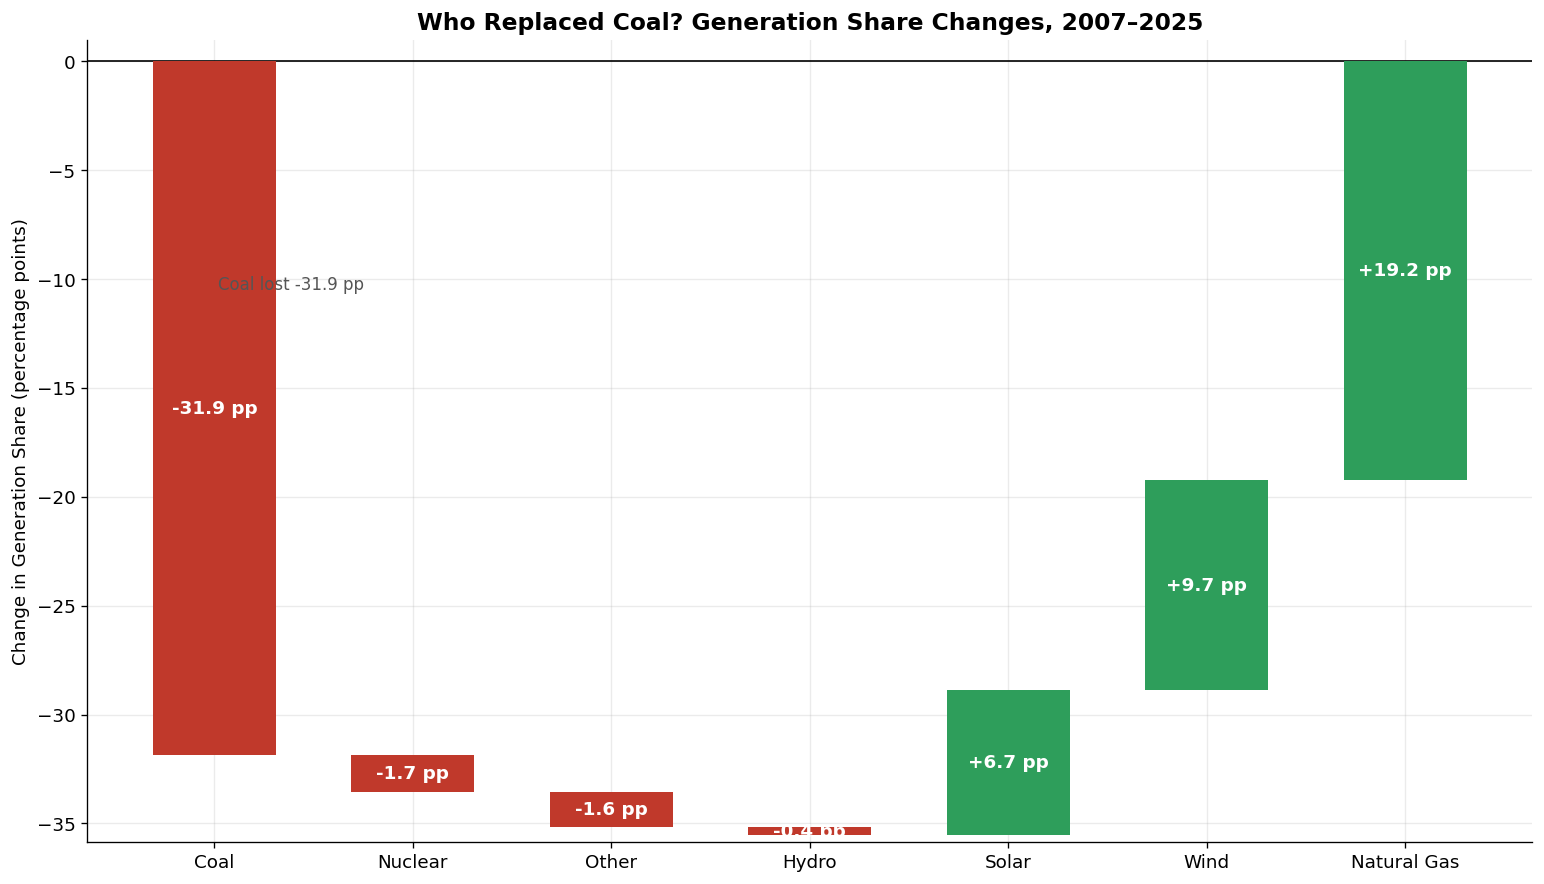
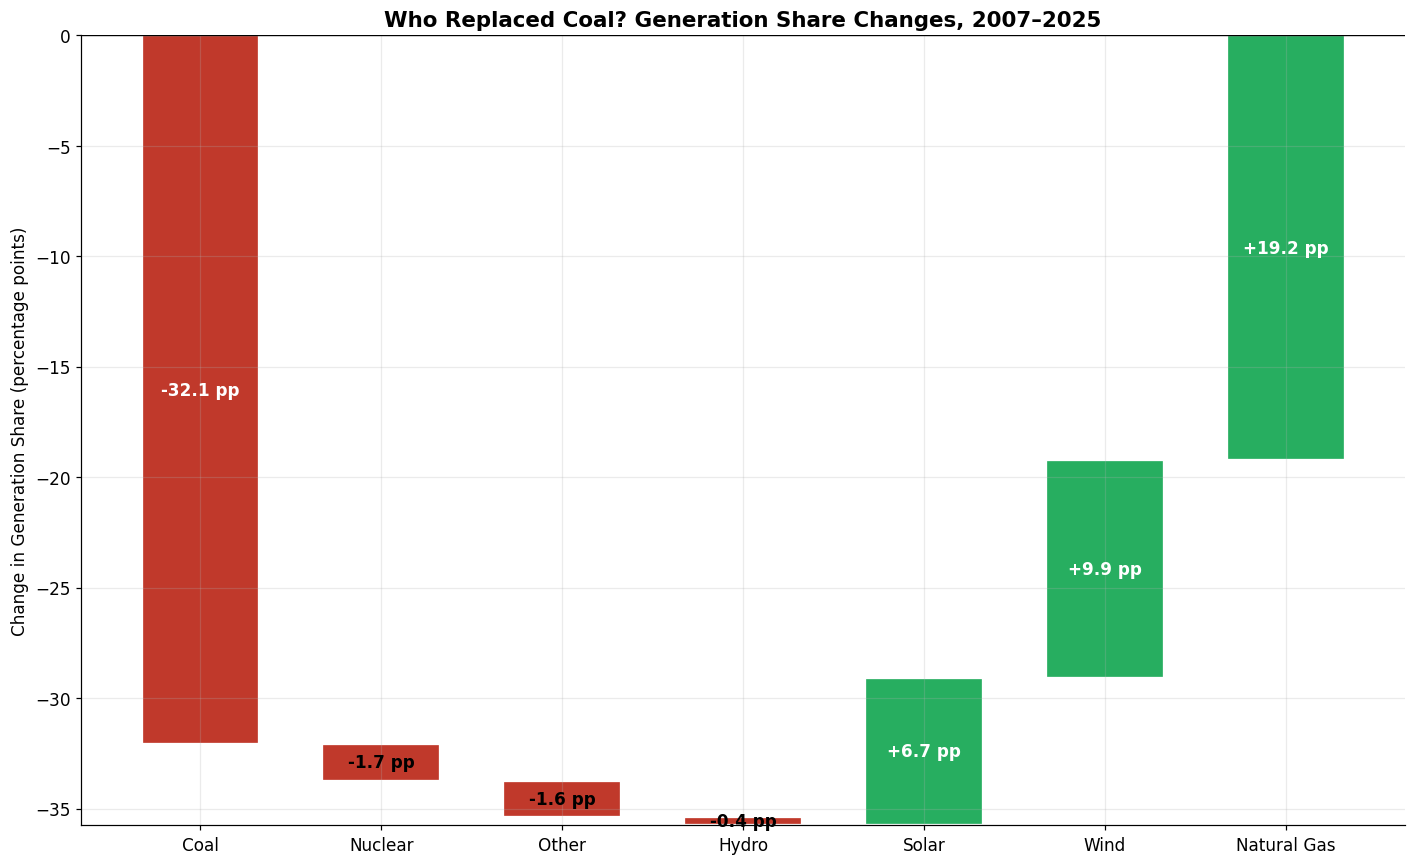
Energy_Mix_5

diff --git a/content/reports/the-great-fuel-shift.md b/content/reports/the-great-fuel-shift.md
@@ -44,3 +44,7 @@ Coal lost 31.9 points of share between 2007 and 2025. Gas took the largest piece
 ![Fuel shares with STEO forecast to 2027](/images/fuel_shift_forecast.png)
 
 The EIA Short-Term Energy Outlook extends the mix to 2027. Gas holds the lead at 39.8%. Coal keeps falling to 14.8% and drops below nuclear, which stays flat at 17.8%. Wind rises to 11.6% and solar to 9.4%, the two fastest movers in the forecast. Together they reach 21% by 2027, moving past nuclear. Solar closes toward wind but does not pass it inside the window.
+
+## The Bottom Line
+
+The mix moved in one direction across the whole record. Coal gave up 31.9 points of share since 2007, and gas took most of that ground while wind and solar took the rest. Gas now leads at about 40% and the forecast holds it there through 2027. Nuclear stayed flat the entire time, near 18%. The only fuels still growing fast are wind and solar, and the STEO carries them to 21% combined by 2027, past nuclear and past coal. On the data through this forecast window, gas holds the top and renewables take the next tier.
